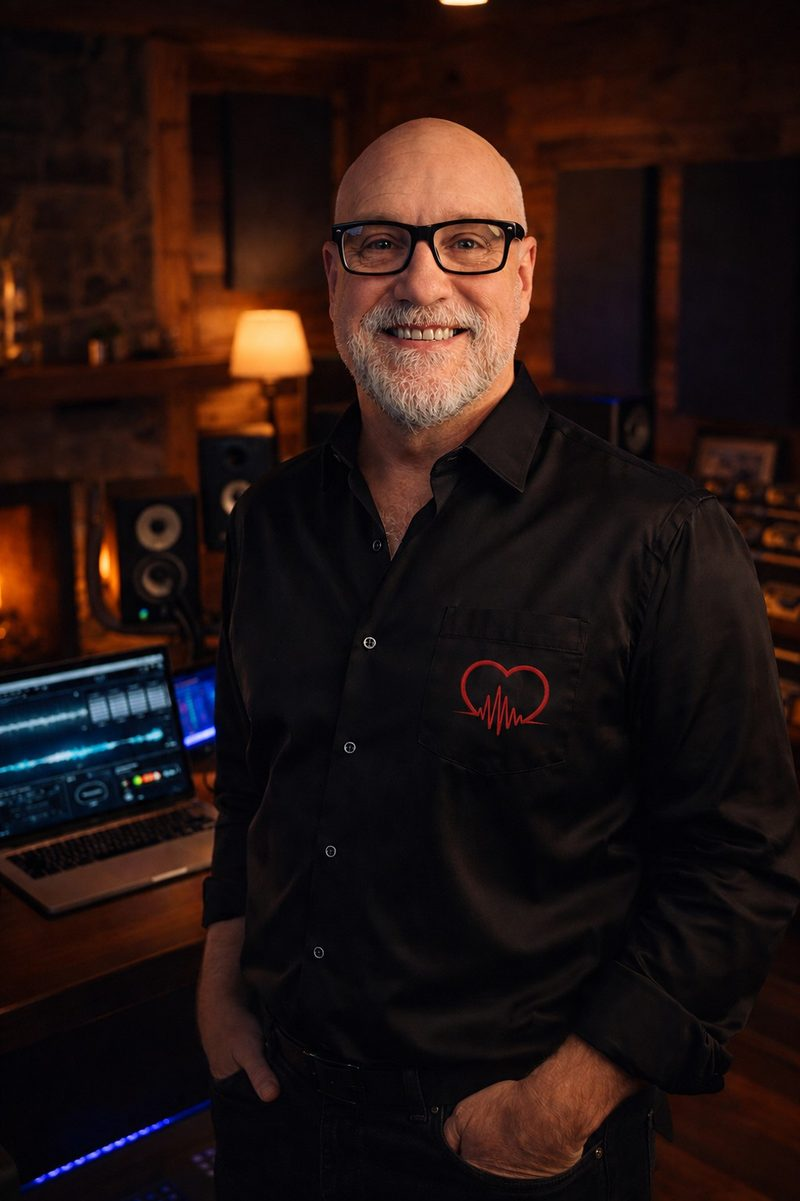
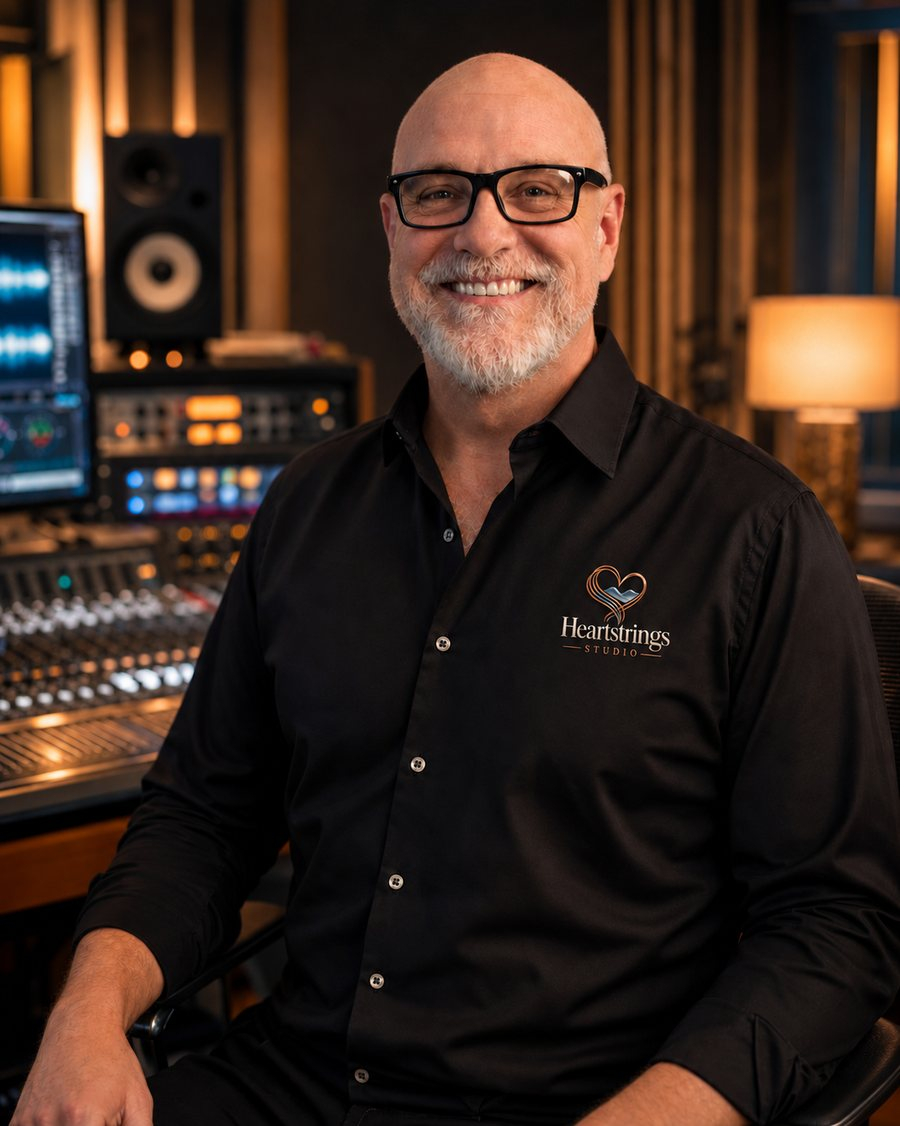
Update Tim's portrait and capitalize The Process in nav (#122)
Swap the Meet Tim portrait for the new studio photo (Tim in the branded
Heartstrings shirt at the desk), downscaled from the Drive master to
900x1126 progressive JPEG. Its 0.80 aspect fits the 470x540 portrait
frame far better than the old 800x1201 crop.

Cache-bust the img with ?v=2-portrait so returning visitors get the new
file; the JSON-LD image URL keeps the clean path.

Nav label reads "The Process" instead of "The process".

diff --git a/index.html b/index.html
@@ -297,14 +297,14 @@
 </script>
 </head>
 <body><a class="skip" href="#main">Skip to content</a>
-<header><a class="brand" href="#"><img src="assets/logo.png?v=3-newlogo" alt="" width="44" height="44"><span>HEARTSTRINGS<small>STUDIO · WEST VIRGINIA</small></span></a><nav aria-label="Main navigation"><a href="#listen">Listen</a><a href="#process">The process</a><a href="#pricing">Investment</a><a href="#meet-tim">Meet Tim</a></nav><a class="button small" href="https://heartstringsstudio.github.io/storyroom/">Tell your story <span>↗</span></a></header>
+<header><a class="brand" href="#"><img src="assets/logo.png?v=3-newlogo" alt="" width="44" height="44"><span>HEARTSTRINGS<small>STUDIO · WEST VIRGINIA</small></span></a><nav aria-label="Main navigation"><a href="#listen">Listen</a><a href="#process">The Process</a><a href="#pricing">Investment</a><a href="#meet-tim">Meet Tim</a></nav><a class="button small" href="https://heartstringsstudio.github.io/storyroom/">Tell your story <span>↗</span></a></header>
 <main id="main"><section class="hero"><img class="hero-scene" src="assets/studio.webp" alt="A portrait-inspired scene of Tim writing in a warmly lit Appalachian studio" fetchpriority="high"><div class="hero-shade"></div><div class="hero-copy wrap"><p class="eyebrow">LUMBERPORT, WEST VIRGINIA <span class="eyebrow-sep">·</span> <span class="eyebrow-tail">CUSTOM SONGWRITING</span></p><h1>Some stories <br>feel like <em>home.</em> <br>Let's give yours <br>a song.</h1><p class="intro">Your people. Your memories. The things worth holding onto. <br>Personally written by Tim Harbert, one story at a time.</p><div class="actions"><a class="button" href="https://heartstringsstudio.github.io/storyroom/">Tell me your story <span>↗</span></a><a class="text-link" href="#listen">Hear the songs ↓</a></div><p class="fine">$150 flat · Delivered in 48–72 hours</p></div><a class="hero-postcard" href="#listen"><img src="assets/porch.webp" alt="Amber porch light against blue Appalachian hills"><span>Pull up a chair. <br><em>Stay for a song.</em> <b>↓</b></span></a><a class="scroll-cue" href="#heart">SCROLL INTO THE STORY <span>↓</span></a></section><div class="proof wrap"><div><strong>107</strong><span>stories turned into songs</span></div><div><strong>48–72h</strong><span>from your story to your song</span></div><div><strong>★★★★★</strong><span>rated by the people behind the stories</span></div><a href="https://www.youtube.com/watch?v=j1_HRI6aJU4" target="_blank" rel="noopener" data-video="j1_HRI6aJU4" data-video-title="Heartstrings Studio on WBOY's 304 Today"><small>AS SEEN ON</small><b>WBOY <span>304 TODAY ▶</span></b></a></div>
 <section class="home-story" id="heart"><div class="home-sticky"><img src="assets/porch.webp" alt="An old wooden porch opening onto wooded West Virginia hills at dusk" class="porch-scene" loading="lazy"><div class="scene-shade"></div><div class="statement wrap"><p class="eyebrow">FROM THESE HILLS. FOR YOUR PEOPLE.</p><h2>A photo shows <br>the moment. <br><em>A song brings <br>you back.</em></h2><p>The laughter. The ache. The love underneath it all. <br>Your memories and your words, made into a song <br>only your story could have made.</p></div><span class="scene-caption">A LITTLE PORCH LIGHT. A WHOLE LOT OF HEART.</span></div></section><section class="occasion-section wrap"><p class="eyebrow">FOR THE MOMENTS WORTH HOLDING ONTO</p><div class="occasions" aria-label="Choose your occasion"></div></section><section class="listen section-pad" id="listen"><div class="wrap"><div class="section-head"><div><p class="eyebrow">THE STORIES ALREADY SINGING</p><h2>Press play. <br><em>Feel something.</em></h2></div><a class="text-link" href="https://heartstringsstudio.github.io/jukebox/">Explore the jukebox ↗</a></div><div class="song-grid" id="songs"></div></div></section>
 <section class="keepsake wrap section-pad"><div class="keepsake-copy"><div class="memory-photo"><img src="assets/wedding.webp" alt="A father and daughter embracing beside an Appalachian wedding gathering" loading="lazy"><span>The kind of love you carry with you.</span></div><p class="eyebrow">THE HEARTSTRINGS KEEPSAKE</p><h2>Not just a song. <br><em>Something to hold onto.</em></h2><p>A personal, unlisted page brings your song, custom artwork, and full lyrics together. Share the link with your people, or keep it close.</p><a class="text-link" href="#pricing">See everything included ↓</a></div><div class="keepsake-stack"><article><span>01 / A PLACE FOR YOUR STORY</span><h3>Your personal keepsake page</h3><p>One quiet home for your song, artwork, and lyrics.</p></article><article><span>02 / MADE FOR THIS MOMENT</span><h3>Custom album artwork</h3><p>Created for the story and feeling behind your song.</p></article><article><span>03 / YOURS TO KEEP</span><h3>MP3 + downloadable lyrics</h3><p>Save it, print it, play it, and pass the story on.</p></article></div></section>
 <section class="process wrap section-pad" id="process"><p class="eyebrow">FROM MEMORY TO MELODY</p><h2>Three steps. <br><em>One song, yours forever.</em></h2><div class="steps"><article><span>01</span><h3>Tell your story.</h3><p>Names. Memories. Inside jokes. The things only you know. Share them in a short intake form, along with the style and feeling you have in mind.</p></article><article><span>02</span><h3>We create together.</h3><p>Tim writes the lyrics and produces your song. You'll see the lyrics first, with one round of revisions before production.</p></article><article><span>03</span><h3>Keep it. Share it.</h3><p>In 48–72 hours, your keepsake page arrives by email, with your song, artwork, and downloads ready to enjoy.</p></article></div></section>
 <section class="pricing section-pad" id="pricing"><div class="wrap price-layout"><div><p class="eyebrow">ONE STORY. ONE PRICE.</p><h2>A gift that <br>doesn't end <br><em>when it's opened.</em></h2><p>Personally written by Tim Harbert. <br>Built around the people who matter to you.</p><div class="memorial"><h3>A little less to carry.</h3><p>Memorial songs always receive free 24-hour delivery. No rush fee. That worry is off your list.</p></div></div><article class="price-card"><div class="price-title"><span>YOUR CUSTOM SONG</span><span>ALL THE HEART. ALL INCLUDED.</span></div><div class="amount">$150 <small>flat</small></div><ul><li>One-on-one creative consultation with Tim</li><li>A fully custom, produced song</li><li>One round of lyric revisions</li><li>Your personal keepsake page</li><li>Unlisted YouTube link to watch and share</li><li>MP3 + lyric sheet downloads</li><li>Custom album art + full lyrics on your page</li><li>Delivery in 48–72 hours</li></ul><a class="button" href="https://heartstringsstudio.github.io/storyroom/">Let's make your song <span>↗</span></a><p class="guarantee">If the finished song misses the mark, Tim starts over from scratch.</p><div class="addons">Commercial license <b>+$100</b> <br>Rush delivery <b>+$50</b></div></article></div></section>
 <section class="testimonials wrap section-pad"><p class="eyebrow">THE PEOPLE WHO LIVED THE SONGS</p><h2>The heart of <em>what I do.</em></h2><div class="quotes"><figure><span>★★★★★</span><blockquote>“My song has brought so much comfort to me. Every time I listen, I realize how blessed I was.”</blockquote><figcaption>Dolores B. <small>HEARTSTRINGS CLIENT</small></figcaption></figure><figure><span>★★★★★</span><blockquote>“My daughter cried, as well as I did. I would have him write a hundred songs for me.”</blockquote><figcaption>Jane H. <small>HEARTSTRINGS CLIENT</small></figcaption></figure><figure><span>★★★★★</span><blockquote>“Tim took over and crafted a truly remarkable tribute that beautifully honored our dear friend.”</blockquote><figcaption>Susan H. <small>HEARTSTRINGS CLIENT</small></figcaption></figure></div></section>
-<section class="about wrap section-pad" id="meet-tim"><div class="portrait"><img src="assets/tim.jpeg" alt="Tim Harbert, founder and songwriter of Heartstrings Studio" loading="lazy"><span>LUMBERPORT, WEST VIRGINIA</span></div><div><p class="eyebrow">THE PERSON BEHIND YOUR SONG</p><h2>Hey, I'm Tim. <br><em>I listen first.</em></h2><p>I'm the founder of Heartstrings Studio. I create custom songs that honor life's meaningful moments — love, loss, gratitude, and the spaces in between.</p><p>Music carried me through some dark chapters and taught me the power of real connection. Now I help others preserve what matters most through melody and story.</p><p class="pullquote">When words fall short, a song can hold what needs to be remembered.</p><a class="text-link" href="https://www.youtube.com/watch?v=j1_HRI6aJU4" target="_blank" rel="noopener" data-video="j1_HRI6aJU4" data-video-title="Heartstrings Studio on WBOY's 304 Today">Watch my story on WBOY's 304 Today ▶</a></div></section>
+<section class="about wrap section-pad" id="meet-tim"><div class="portrait"><img src="assets/tim.jpeg?v=2-portrait" alt="Tim Harbert, founder and songwriter of Heartstrings Studio" loading="lazy"><span>LUMBERPORT, WEST VIRGINIA</span></div><div><p class="eyebrow">THE PERSON BEHIND YOUR SONG</p><h2>Hey, I'm Tim. <br><em>I listen first.</em></h2><p>I'm the founder of Heartstrings Studio. I create custom songs that honor life's meaningful moments — love, loss, gratitude, and the spaces in between.</p><p>Music carried me through some dark chapters and taught me the power of real connection. Now I help others preserve what matters most through melody and story.</p><p class="pullquote">When words fall short, a song can hold what needs to be remembered.</p><a class="text-link" href="https://www.youtube.com/watch?v=j1_HRI6aJU4" target="_blank" rel="noopener" data-video="j1_HRI6aJU4" data-video-title="Heartstrings Studio on WBOY's 304 Today">Watch my story on WBOY's 304 Today ▶</a></div></section>
 <section class="faq wrap section-pad" id="faq"><div><p class="eyebrow">A FEW THINGS YOU MAY BE WONDERING</p><h2>Good questions. <br><em>Straight answers.</em></h2></div><div id="questions"></div></section>
 <section class="closing"><img src="assets/porch.webp" alt="" loading="lazy"><div class="closing-content wrap"><p class="eyebrow">YOU ALREADY HAVE THE STORY.</p><h2>Let's make it <br><em>sing.</em></h2><a class="button" href="https://heartstringsstudio.github.io/storyroom/">Tell Tim your story <span>↗</span></a><p>$150 flat. A song that stays.</p></div></section>
 </main><footer class="wrap"><a class="brand" href="#">HEARTSTRINGS STUDIO</a><div><a href="https://www.facebook.com/profile.php?id=61584734289007">Facebook</a><a href="https://www.tiktok.com/@heartstringsstudiowv">TikTok</a><a href="https://heartstringsstudio.github.io/jukebox/">Jukebox</a><a href="mailto:heartstringsstudiowv@gmail.com">Email Tim</a></div><p>© 2026 Heartstrings Studio · Lumberport, West Virginia</p></footer><script src="script.js"></script></body></html>
